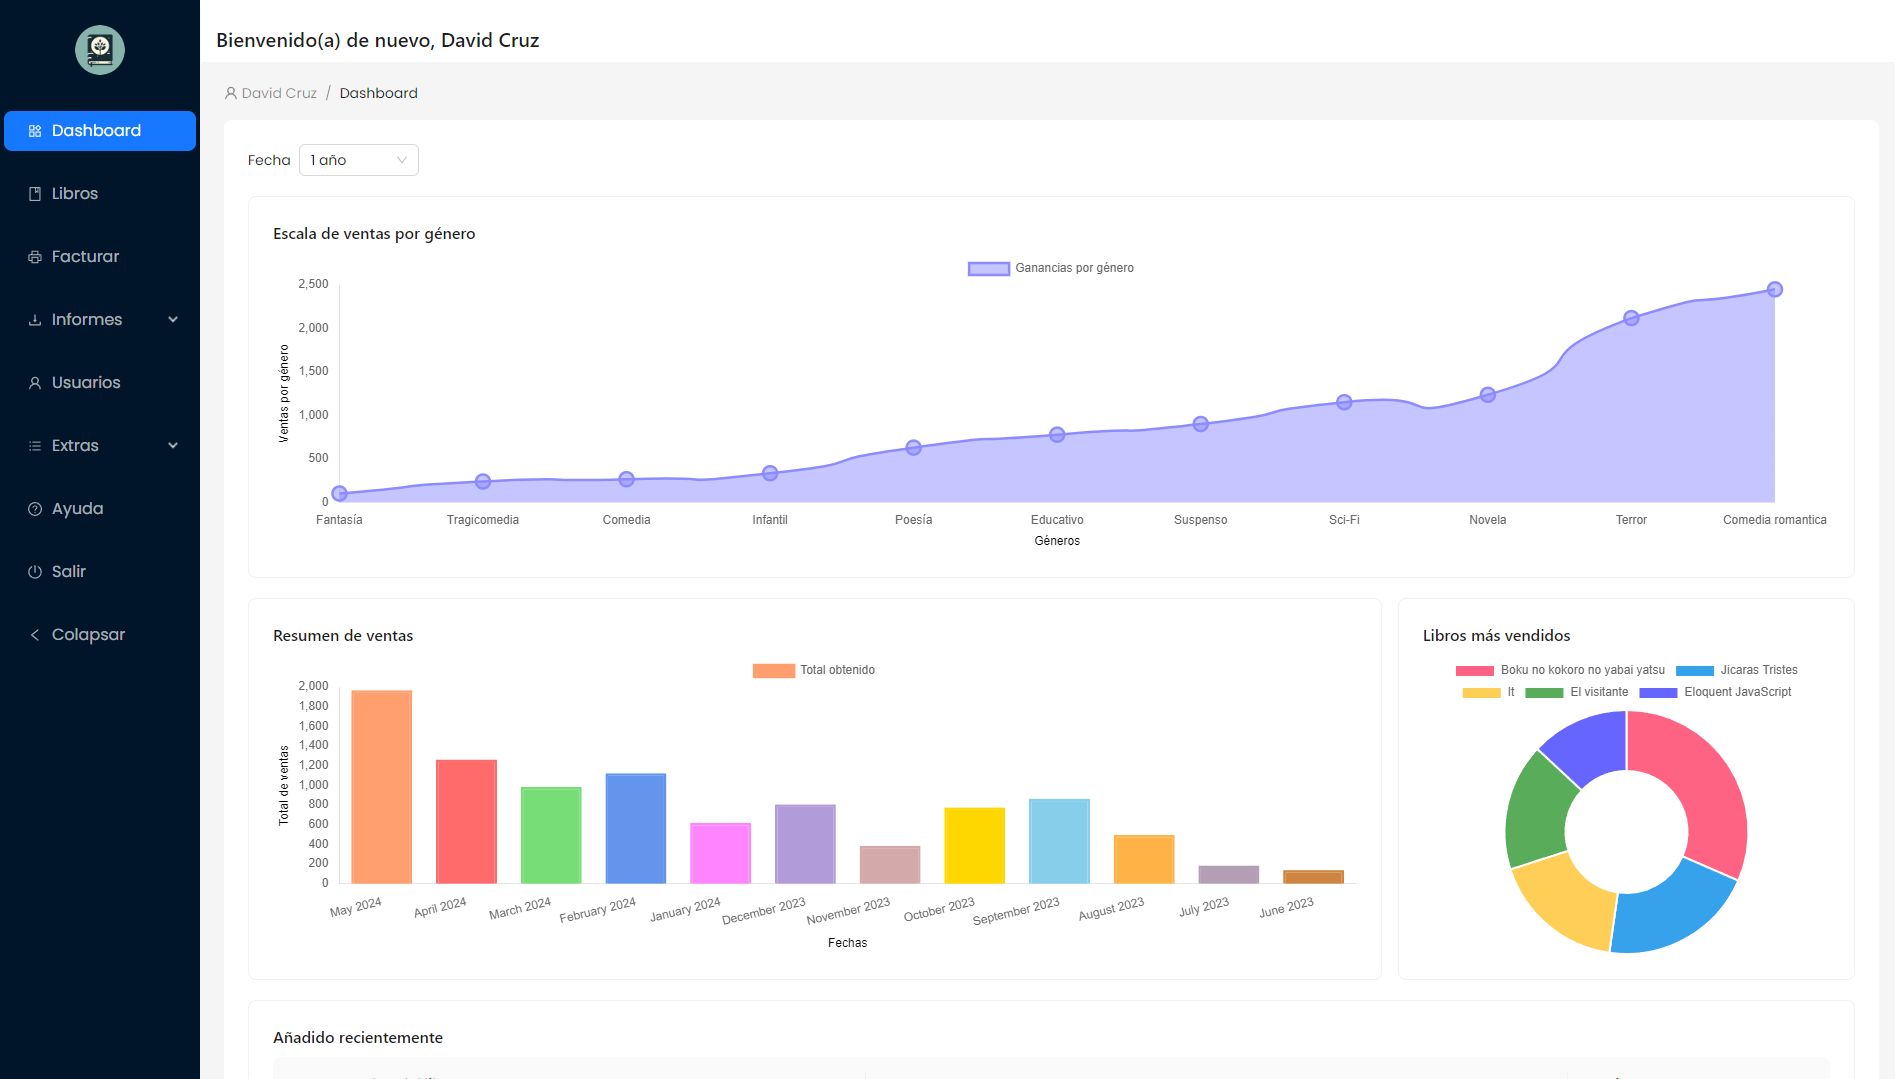
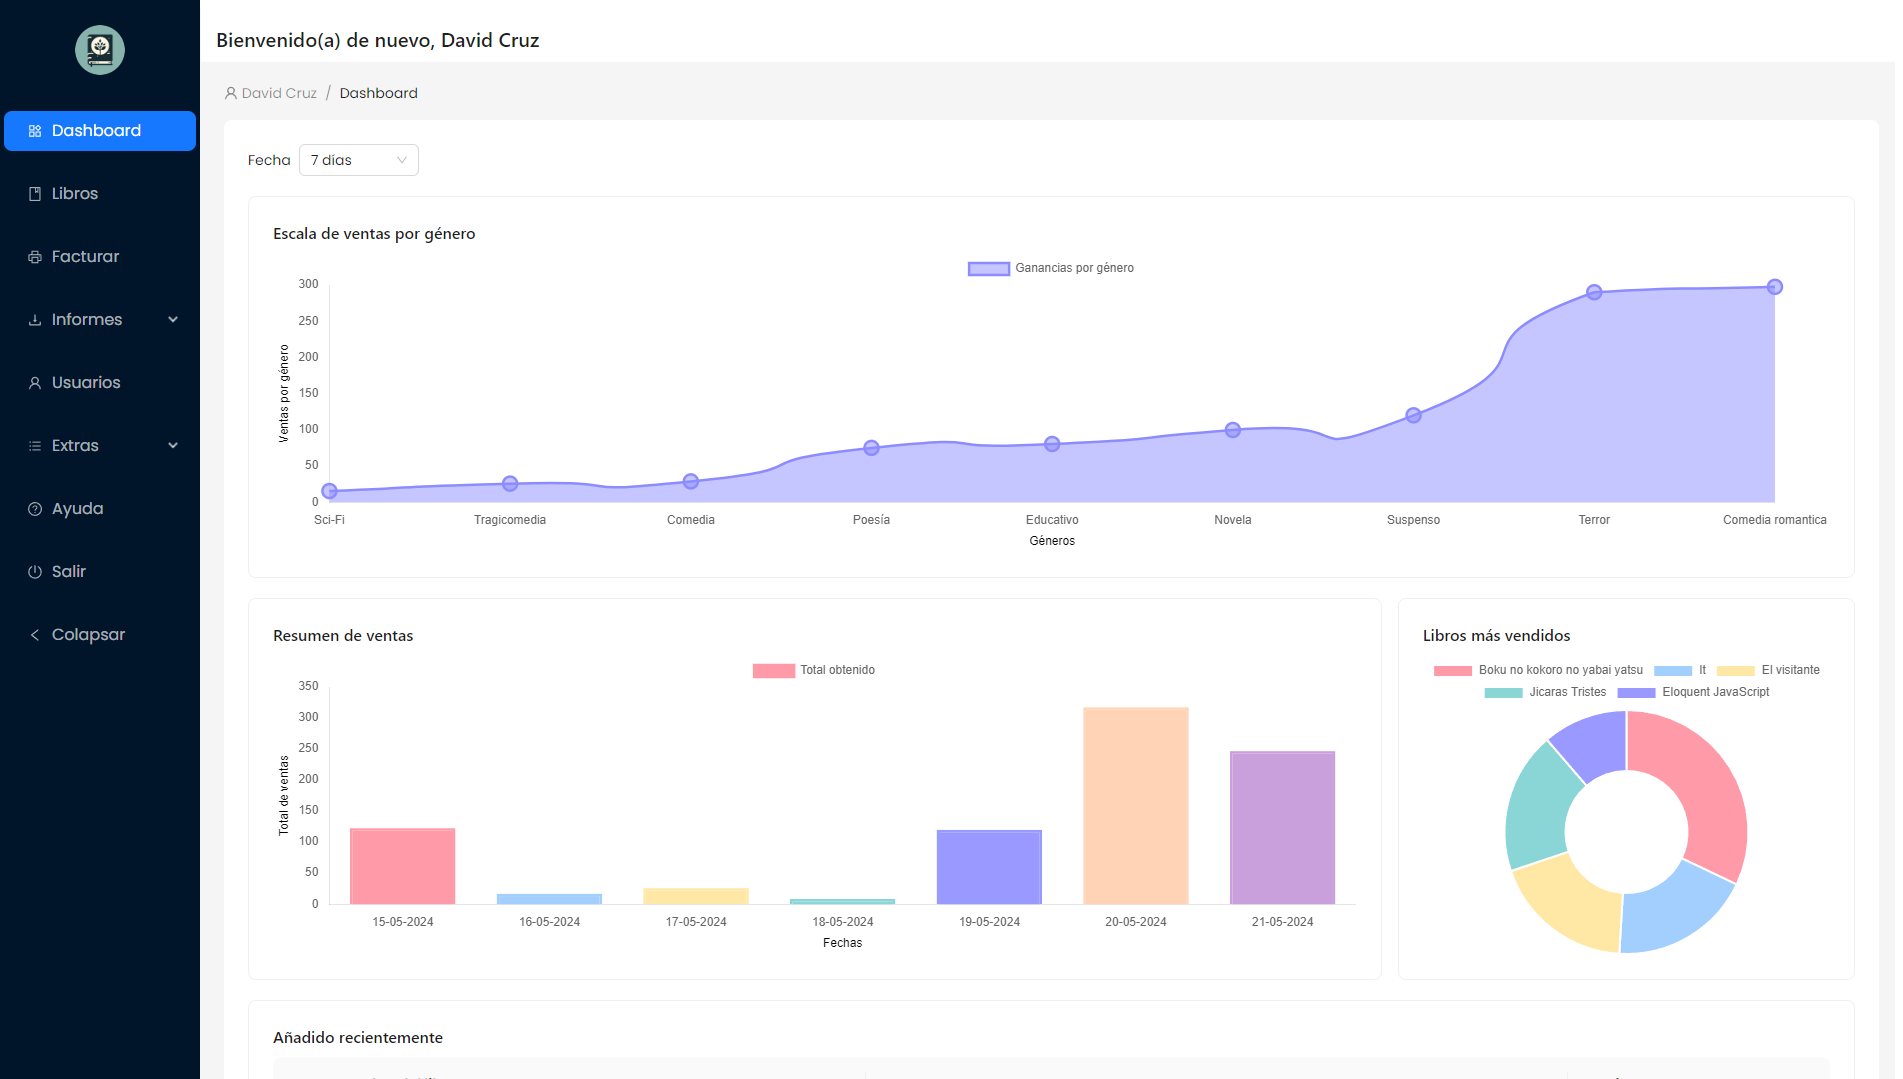
Dashboard has been updated, missing Help Center

diff --git a/frontend/src/components/dashboardGraphs/DashboardGraphs.jsx b/frontend/src/components/dashboardGraphs/DashboardGraphs.jsx
@@ -68,32 +68,32 @@ const DashboardGraphs = ({ period }) => {
           {
             label: "Total obtenido",
             backgroundColor: [
-              "#ff9f6d",
-              "#ff6b6b",
-              "#77dd77",
-              "#6495ed",
-              "#ff85ff",
-              "#b19cd9",
-              "#d4a9a9",
-              "#ffd700",
-              "#87ceeb",
-              "#ffb347",
-              "#b39eb5",
-              "#cd853f"
+              "#ff9aa8",
+              "#a3cfff",
+              "#ffe8a6",
+              "#8ad6d6",
+              "#9999ff",
+              "#ffd3b6",
+              "#c9a0dc",
+              "#aad8b0",
+              "#ffb3e6",
+              "#ffd966",
+              "#84dcc6",
+              "#ffc9de"
           ],
           borderColor: [
-              "#ff9f6d",
-              "#ff6b6b",
-              "#77dd77",
-              "#6495ed",
-              "#ff85ff",
-              "#b19cd9",
-              "#d4a9a9",
-              "#ffd700",
-              "#87ceeb",
-              "#ffb347",
-              "#b39eb5",
-              "#cd853f"
+              "#ff9aa8",
+              "#a3cfff",
+              "#ffe8a6",
+              "#8ad6d6",
+              "#9999ff",
+              "#ffd3b6",
+              "#c9a0dc",
+              "#aad8b0",
+              "#ffb3e6",
+              "#ffd966",
+              "#84dcc6",
+              "#ffc9de"
           ],
             borderWidth: 2.5,
           },
@@ -141,19 +141,19 @@ const DashboardGraphs = ({ period }) => {
           {
             label: ["Cantidad vendida"],
             backgroundColor: [
-              "#ff6384",
-              "#36a2Eb",
-              "#ffce56",
-              "#59ac59",
-              "#6666ff",
+              "#ff9aa8",
+              "#a3cfff",
+              "#ffe8a6",
+              "#8AD6D6",
+              "#9999ff"
             ],
             hoverBackgroundColor: [
               "#ff6384",
               "#36a2Eb",
               "#ffce56",
-              "#59ac59",
-              "#6666ff",
-            ],
+              "#4bc0c0",
+              "#6666ff"
+            ]
           },
         ],
       },
